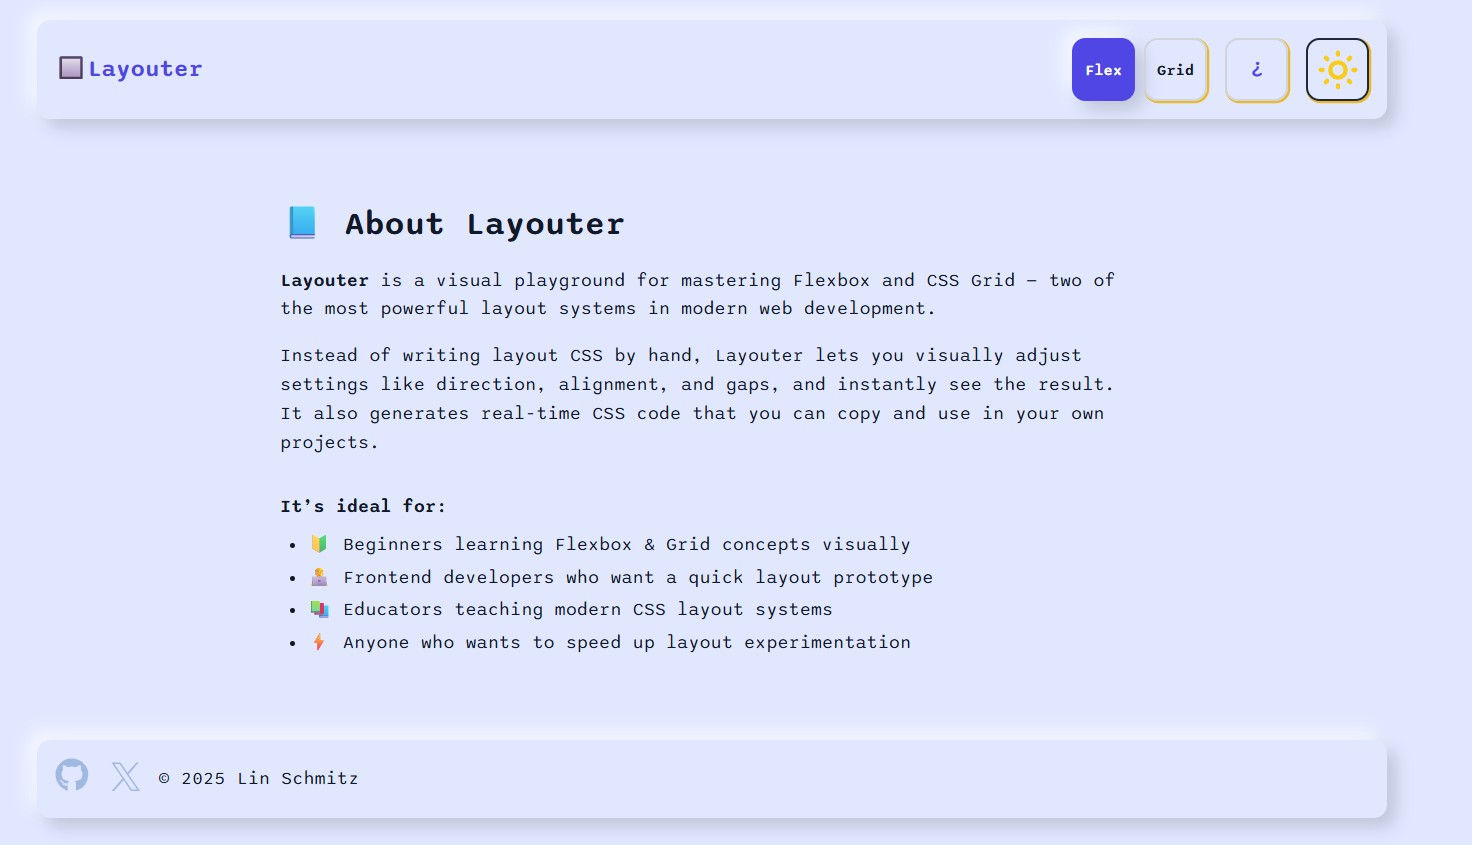
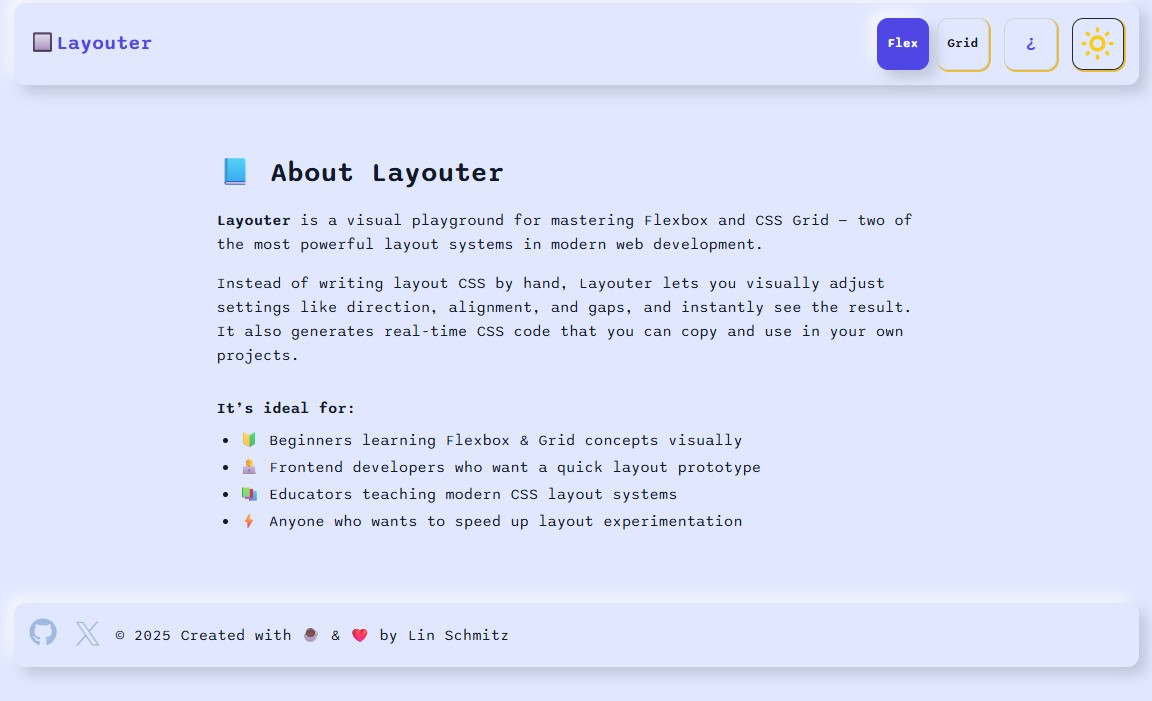
fixed bug

diff --git a/src/components/Footer.jsx b/src/components/Footer.jsx
@@ -35,7 +35,8 @@ function Footer() {
         </svg>
       </a>
       <p className="copyright">
-        &copy; {currentYear} <span className="footer-name">Lin Schmitz</span>
+        &copy; {currentYear}{' '}
+        <span className="footer-name">Created with ☕ & ❤ by Lin Schmitz</span>
       </p>
     </footer>
   );

diff --git a/README.md b/README.md
@@ -106,7 +106,7 @@ Feel free to fork, open issues, or submit PRs! Let's make Layouter even better t
 
 ## 📬 Contact
 
-Created with ☕ & ❤ by \Lin Schmitz. Reach out anytime!
+Created with ☕ & ❤ by Lin Schmitz. Reach out anytime!
 
 ---
 
